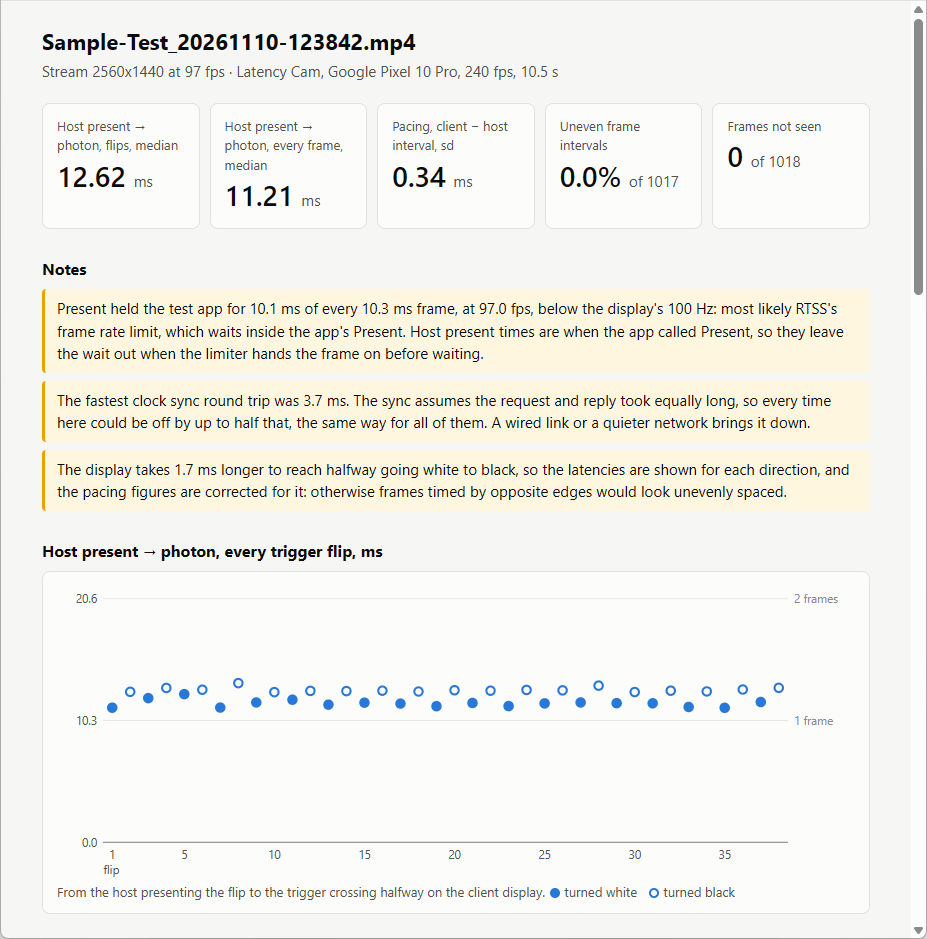
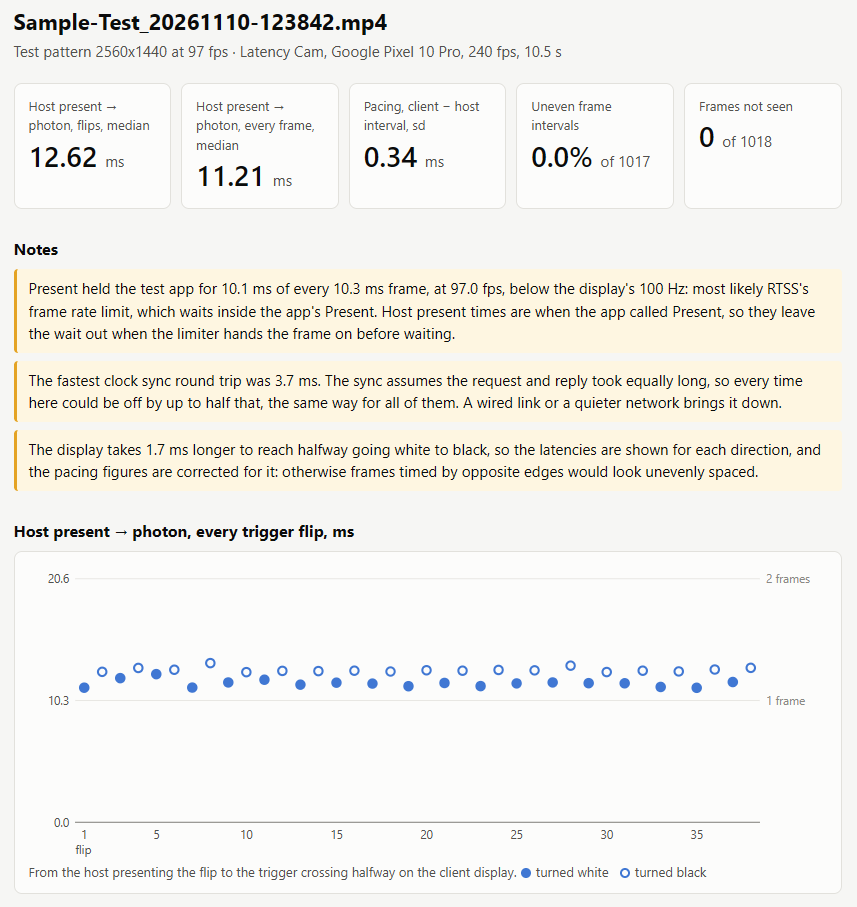
docs: update the sample report and its screenshot to the new wording

diff --git a/samples/Sample-Test_20261110-123842/Sample-Test_20261110-123842.report.html b/samples/Sample-Test_20261110-123842/Sample-Test_20261110-123842.report.html
@@ -68,7 +68,7 @@ img { max-width: 100%; border-radius: 4px; }
 .files { color: var(--text-2); font-size: 13px; }
 </style></head><body><main>
 <h1>Sample-Test_20261110-123842.mp4</h1>
-<p class="sub">Stream 2560x1440 at 97 fps &middot; Latency Cam, Google Pixel 10 Pro, 240 fps, 10.5 s</p>
+<p class="sub">Test pattern 2560x1440 at 97 fps &middot; Latency Cam, Google Pixel 10 Pro, 240 fps, 10.5 s</p>
 <div class="tiles"><div class="tile"><div class="label">Host present &rarr; photon, flips, median</div><div class="value">12.62 <small>ms</small></div></div><div class="tile"><div class="label">Host present &rarr; photon, every frame, median</div><div class="value">11.21 <small>ms</small></div></div><div class="tile"><div class="label">Pacing, client &minus; host interval, sd</div><div class="value">0.34 <small>ms</small></div></div><div class="tile"><div class="label">Uneven frame intervals</div><div class="value">0.0% <small>of 1017</small></div></div><div class="tile"><div class="label">Frames not seen</div><div class="value">0 <small>of 1018</small></div></div></div>
 <h2>Notes</h2>
 <div class="note">Present held the test app for 10.1 ms of every 10.3 ms frame, at 97.0 fps, below the display&#x27;s 100 Hz: most likely RTSS&#x27;s frame rate limit, which waits inside the app&#x27;s Present. Host present times are when the app called Present, so they leave the wait out when the limiter hands the frame on before waiting.</div>
